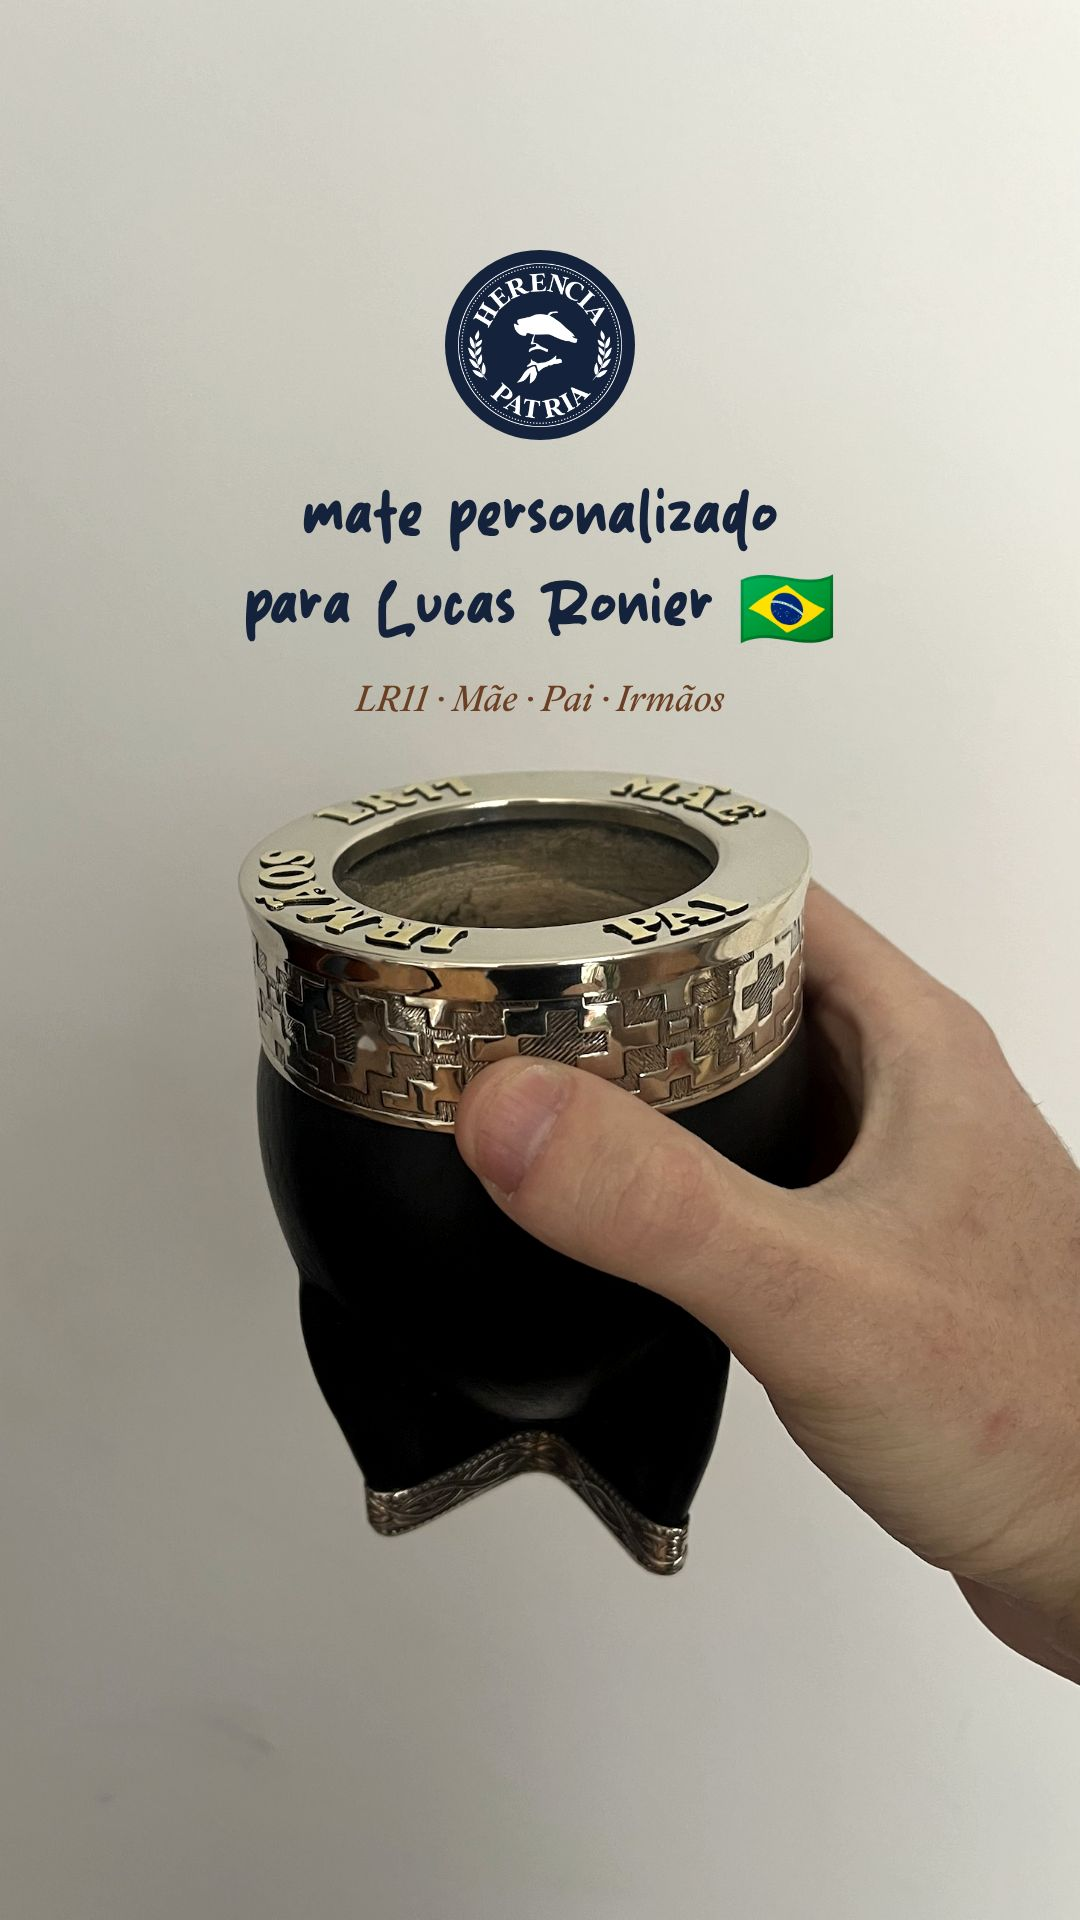
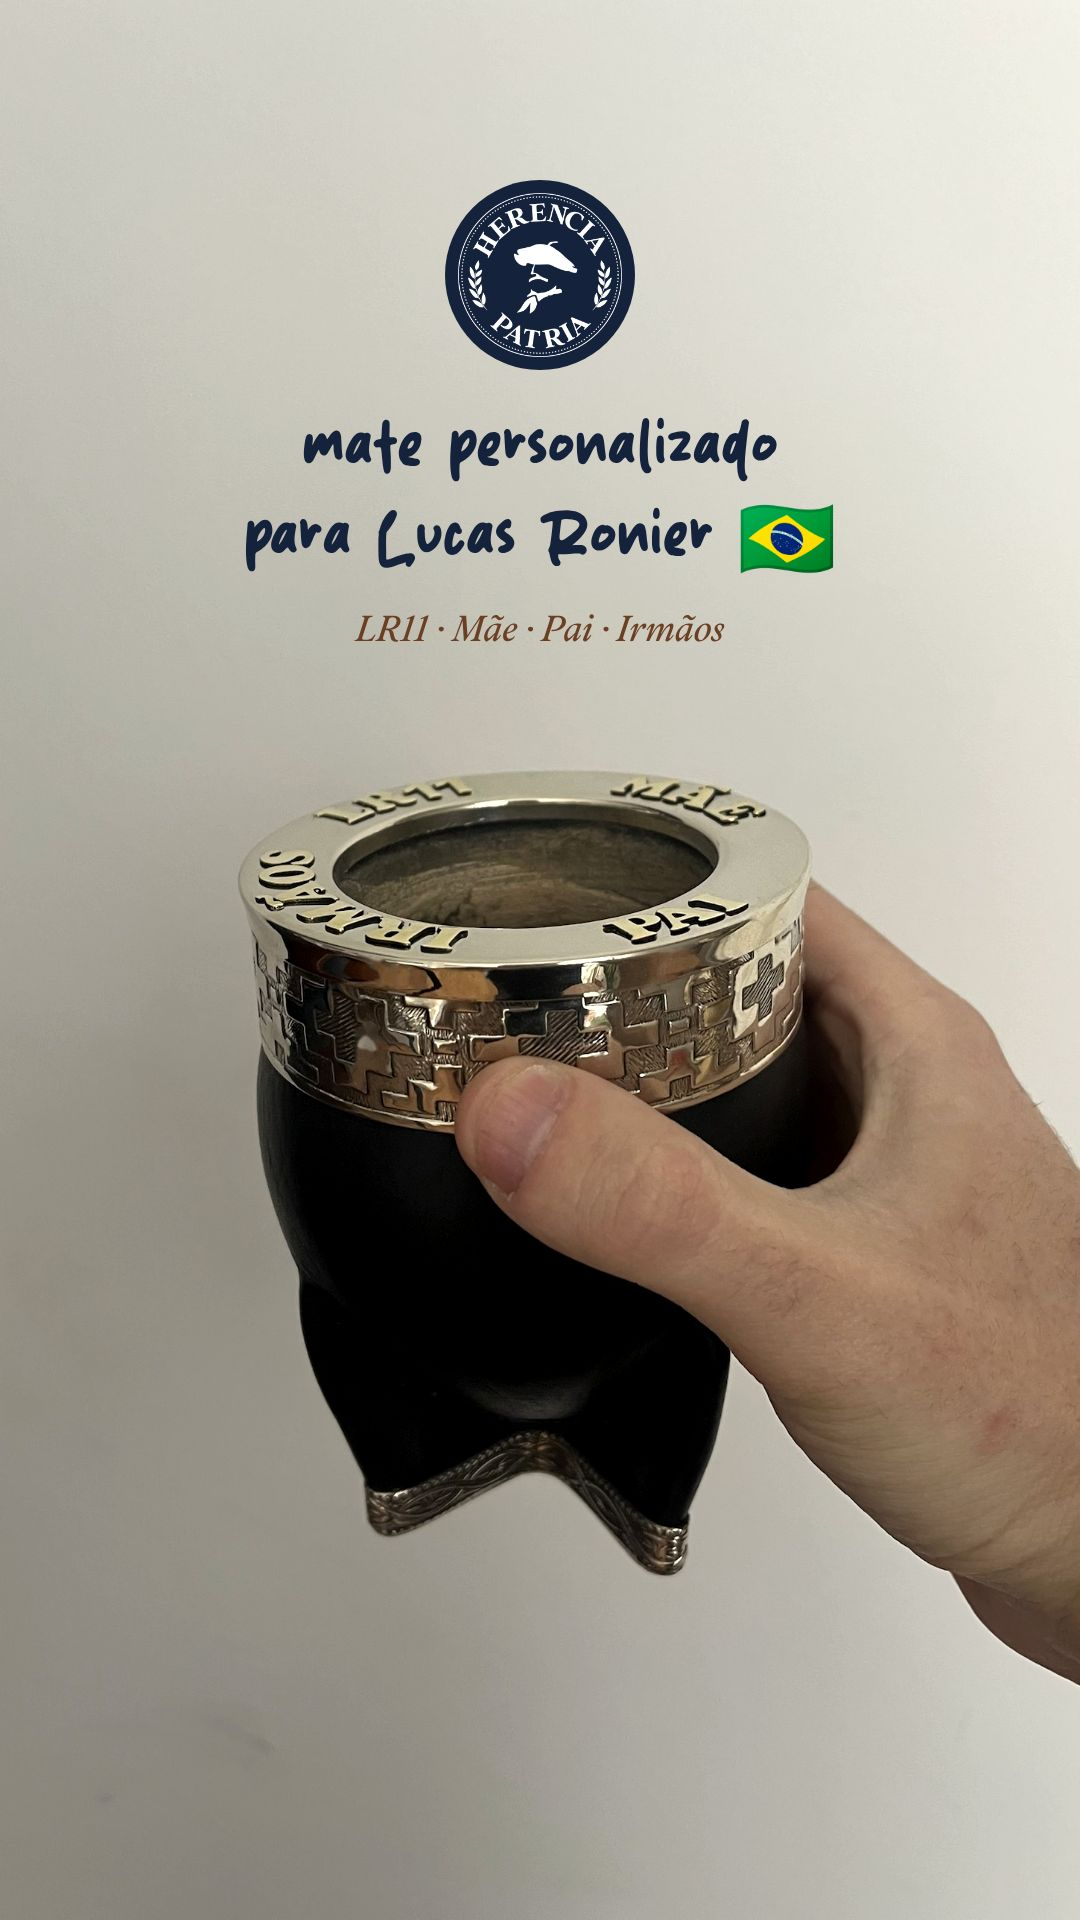
Historia Lucas Ronier: sello y textos 70 px más arriba
Claude-Session: https://claude.ai/code/session_012H3xPSmbqKoMmc2aK7okNH

Changed region(s): [[0.2139, 0.0938, 0.7944, 0.375]]

diff --git a/src/HerenciaPatria/HistoriaDedicada.tsx b/src/HerenciaPatria/HistoriaDedicada.tsx
@@ -33,7 +33,8 @@ export const HistoriaDedicada: React.FC<{
       <div
         style={{
           position: "absolute",
-          top: 250,
+          // Lo más arriba posible sin meterse bajo el nombre del perfil.
+          top: 180,
           left: 70,
           right: 70,
           display: "flex",
